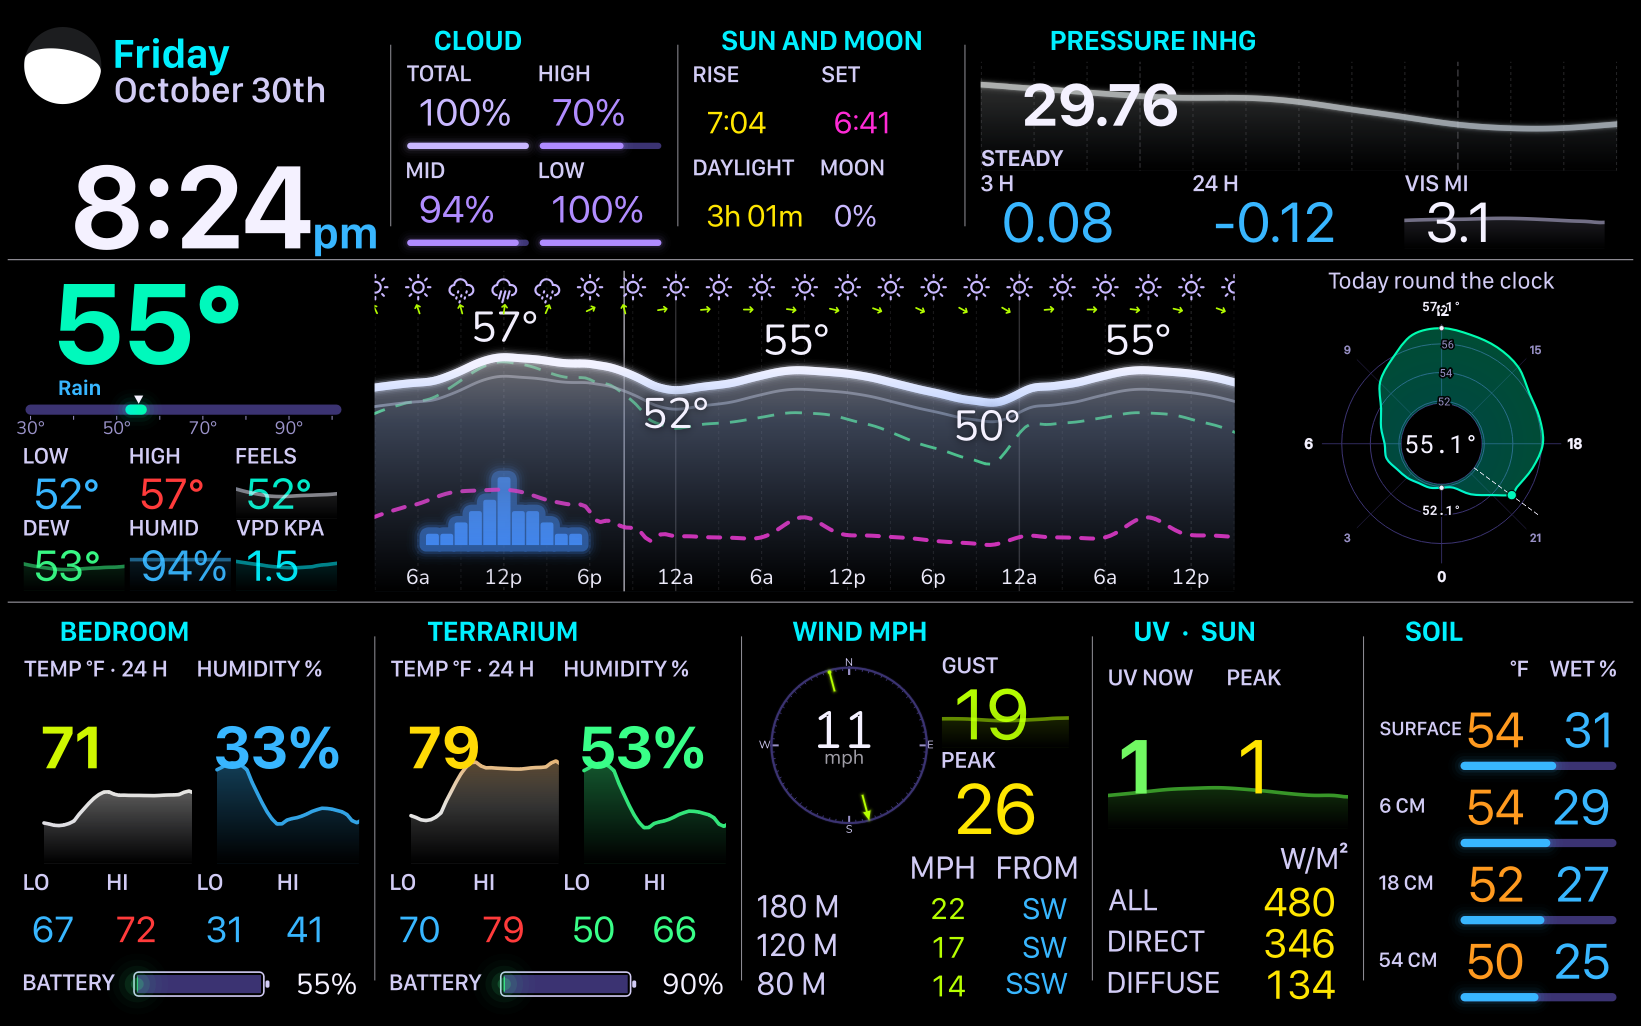
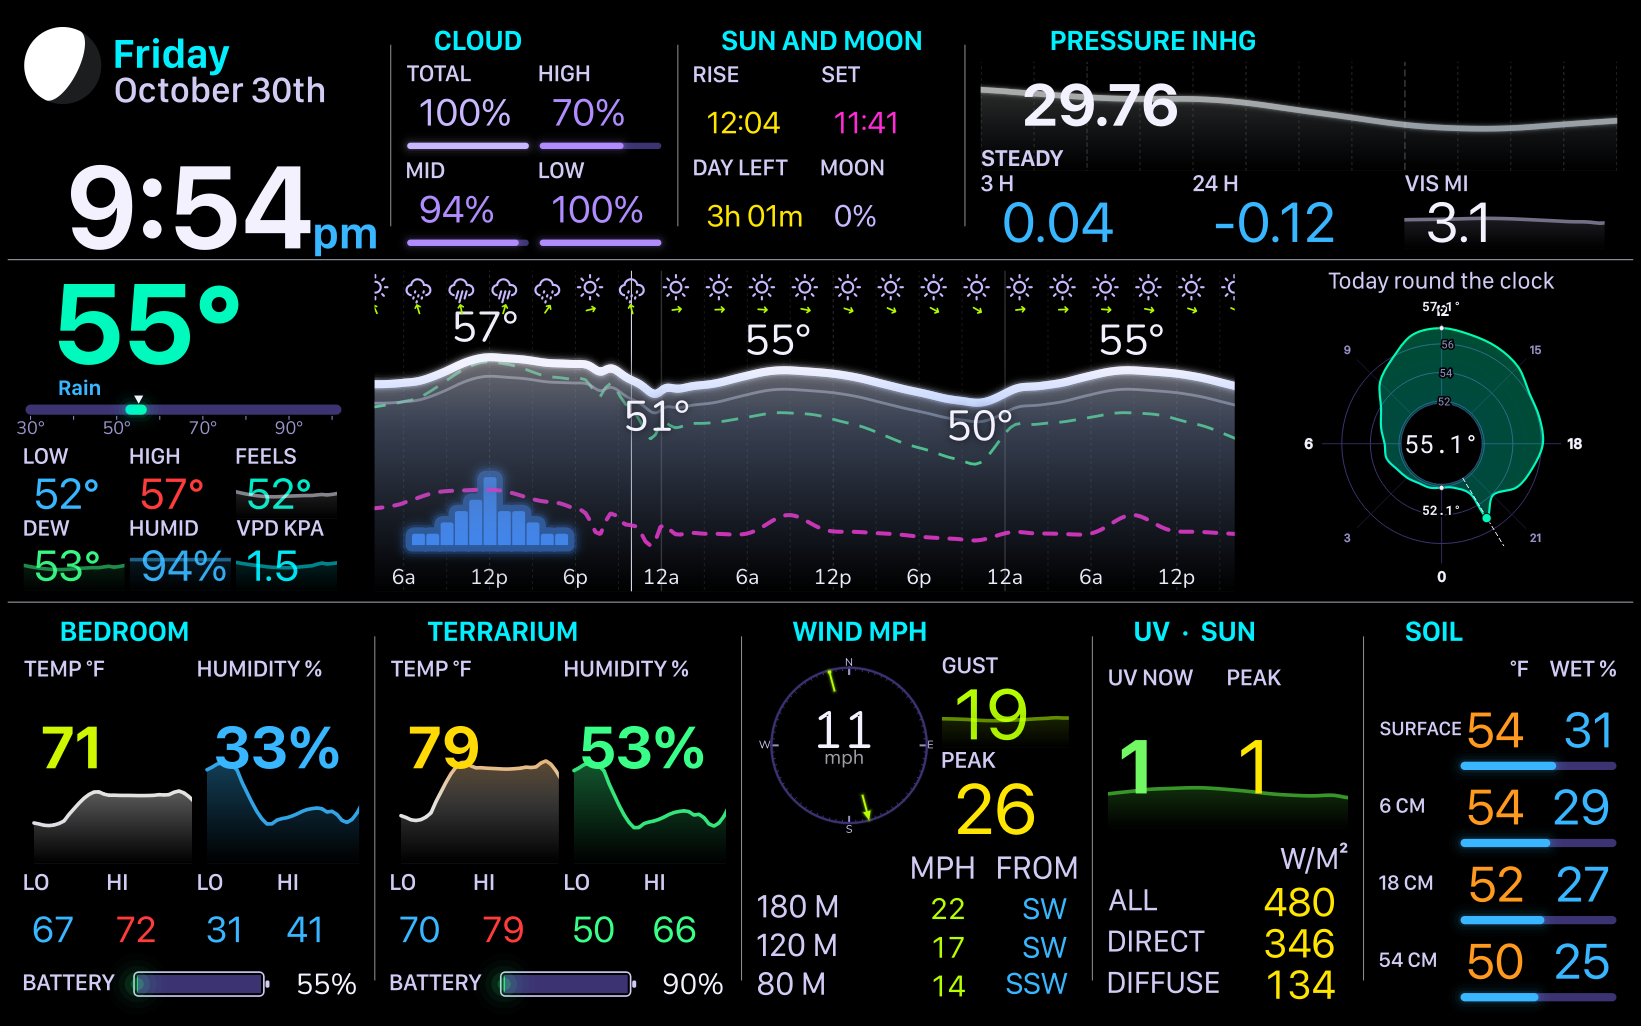
fix: lambda polish, Open-Meteo soil moisture, graphs of realtime sensors read their recorded history (#251)
* fix(Dashboards): lambda polish from the first screenshot; Open-Meteo soil moisture is a share of one

- The captions in each panel share one size group. On lambda's screen, room and UV
  captions grew to their cell widths and ran into each other.
- DAYLIGHT is astronomy.sun.remaining, the daylight that is left, so it is now
  captioned DAY LEFT.
- The forecast window starts one hour back, not six. Lambda has no history there,
  so the old window left an empty band with a lone "2p" label.
- Open-Meteo reports soil moisture in m³/m³ (0.31), and the schema read it as
  percent, so every soil row showed 0. It now reads it as a share of one, like
  PirateWeather's moon phase.

Claude-Session: https://claude.ai/code/session_01XXB2c8ceBkjJJtoHgxAMd5

* fix(Dispatcher): a graph of a realtime sensor reads its recorded history

A recorded log (ObservationLog) reports a negative period, so a realtime
source that keeps its history, such as Govee, never counted as a timeseries.
A graph's request also waited for a forecast, which such a key never gets. As a
result the room mini graphs never asked for the history the backend holds:
lambda's frontend logged no Govee timeseries request at all.

isTimeseries now compares the absolute period. A container whose only series is
its past stands in for a forecast when no source of the key has one. That covers
the strict getTimeseries, the ready check in getPreferredSourceContainer and
[…]

diff --git a/docs/tasks/lambda-cross-section-gen.py b/docs/tasks/lambda-cross-section-gen.py
@@ -31,8 +31,12 @@ def panel(name, title, items, size=None, color='$accent'):
 
 
 def cap(text, geom, color='$muted'):
+	# Every caption in a panel shares one size group (scoped per panel by scope_groups), so a caption in a wide
+	# cell is not drawn larger than its neighbours: on lambda's screen `text-height` alone let them grow into
+	# each other.
 	return {'type': 'text', 'text': text, 'font': '$display', 'weight': 'Medium', 'color': color,
-	        'alignment': 'BottomLeft', 'text-height': CAP, 'geometry': geom}
+	        'alignment': 'BottomLeft', 'text-height': CAP, 'geometry': geom,
+	        'matchingGroup': {'group': 'global.cap', 'matchAll': True}}
 
 
 def val(key, geom, color='$text', precision=0, unit='Hidden', hint=None, height=VAL, group='global.tile', align='BottomLeft', fmt=None, weight='Regular'):
@@ -170,7 +174,7 @@ cloud = panel('cloud', 'CLOUD', [
 sun = panel('sun', 'SUN AND MOON', tiles([
 	('RISE', 'astronomy.sun.rise', {'color': '$warn', 'fmt': '%-I:%M', 'hint': '0:00'}),
 	('SET', 'astronomy.sun.set', {'color': '$pink', 'fmt': '%-I:%M', 'hint': '0:00'}),
-	('DAYLIGHT', 'astronomy.sun.remaining', {'color': '$warn', 'fmt': 'duration', 'hint': '0h 00m'}),
+	('DAY LEFT', 'astronomy.sun.remaining', {'color': '$warn', 'fmt': 'duration', 'hint': '0h 00m'}),
 	('MOON', 'astronomy.moon.phase', {'color': '$cloud', 'unit': 'Inline', 'hint': '00%'}),
 ], 0, 0, 100, 100, 2), size='16%')
 
@@ -221,7 +225,7 @@ now = {'type': 'group', 'name': 'now', 'size': '20%', 'items': [
 ]}
 
 forecast = {
-	'type': 'graph', 'name': 'forecast', 'timeframe': {'days': 2, 'hours': 12},
+	'type': 'graph', 'name': 'forecast', 'timeframe': {'days': 2, 'hours': 12, 'offset': {'hours': -1}},
 	'annotations': {'dayLabels': {'enabled': False},
 	                'hourLabels': {'alignment': 'BottomCenter', 'spacingIntervals': '3, 6, 12'},
 	                'lines': {'spacing': '8 mm', 'weight': 0.5}},
@@ -307,7 +311,7 @@ def room(name, title, ident, hum_color, tlo, thi):
 	return panel(name, title, [
 		mini(t, g(0, 12, 50, 48), gradient='TemperatureGradient', hours=24, past=True, lo=tlo, hi=thi, opacity=0.9, fill=0.4, figure='indoor', top='5%'),
 		mini(h, g(52, 12, 48, 48), color=hum_color, hours=24, past=True, opacity=0.9, fill=0.4, figure='humid', top='35%'),
-		cap('TEMP °F · 24 H', g(0, 0, 50, 10)),
+		cap('TEMP °F', g(0, 0, 50, 10)),
 		val(t, g(0, 10, 50, 34), temp_scale(t), unit='Hidden', hint='00', fmt={'unit_symbol': False}, height=HERO2, group='global.hero2', weight='Bold'),
 		cap('HUMIDITY %', g(52, 0, 48, 10)),
 		val(h, g(52, 10, 48, 34), hum_color, unit='Inline', hint='00%', height=HERO2, group='global.hero2', weight='Bold'),
@@ -401,8 +405,8 @@ def scope_groups(node, panel=None):
 		if node.get('type') in ('titled-group', 'group', 'switch') and node.get('name'):
 			panel = node['name']
 		mg = node.get('matchingGroup')
-		if isinstance(mg, dict) and mg.get('group') == 'global.tile' and panel:
-			mg['group'] = f'global.tile-{panel}'
+		if isinstance(mg, dict) and mg.get('group') in ('global.tile', 'global.cap') and panel:
+			mg['group'] = f"{mg['group']}-{panel}"
 		for v in node.values():
 			scope_groups(v, panel)
 	elif isinstance(node, list):

diff --git a/src/LevityDash/lib/plugins/dispatcher.py b/src/LevityDash/lib/plugins/dispatcher.py
@@ -201,14 +201,14 @@ class MultiSourceContainer(dict):
 		# a live Container, so live-mode behavior is unchanged.
 		try:
 			preferred = self[preferredSource if preferredSource is not AnySource else None or self.preferredSource]
-			if preferred.timeseries is not None and (preferred.isForecast or (not strict and (preferred.isTimeseries or preferred.isDaily))):
+			if preferred.timeseries is not None and (preferred.isForecast or (not strict and preferred.isDaily) or self._historyOnly(preferred)):
 				return preferred
 		except KeyError:
 			pass
 		timeseriesContainers = sorted(
 			[
 				c for c in self.values()
-				if c.timeseries is not None and (c.isForecast or ((c.isTimeseries or c.isDaily) and not strict))
+				if c.timeseries is not None and (c.isForecast or (c.isDaily and not strict) or self._historyOnly(c))
 			],
 			key=lambda c: (c.isForecast, len(c.source.config.defaultFor)), reverse=True
 		)
@@ -216,6 +216,11 @@ class MultiSourceContainer(dict):
 			return timeseriesContainers[0]
 		except IndexError:
 			return None
+
+	def _historyOnly(self, container) -> bool:
+		"""A container whose only series is its recorded past (a Govee room sensor) stands in for a forecast when no
+		source of this key has one. A key that does have a forecast keeps it: a station's log never wins over it."""
+		return container.isTimeseries and not container.isForecast and not self.isForecast
 
 	def getDaily(self, preferredSource: Plugin | SomePlugin = AnySource) -> Container | None:
 		"""
@@ -338,7 +343,7 @@ class MultiSourceContainer(dict):
 					singleShotSafe(1, request.callback)
 
 		if requesters := (self.waitingForTimeseries[plugin] or self.waitingForTimeseries[AnySource]):
-			if plugin[self.key].isForecast:
+			if plugin[self.key].isForecast or self._historyOnly(plugin[self.key]):
 				log.verbose(f"{plugin.name} timeseries is ready for {self.key}", verbosity=2)
 				for request in (*self.waitingForTimeseries.pop(plugin, []), *self.waitingForTimeseries.pop(AnySource, [])):
 					log.verbose(f"Issuing callback for {request.requester!s}", verbosity=2)
@@ -394,7 +399,7 @@ class MultiSourceContainer(dict):
 		# waits, and without this check the request would hold until the
 		# source's next publish (a full poll cycle). Mirror checkAwaiting's
 		# fire conditions and short-circuit instead of queueing.
-		ready = (lambda c: c.isForecast) if timeseriesOnly else (lambda c: c.isRealtime or c.isRealtimeApproximate)
+		ready = (lambda c: c.isForecast or self._historyOnly(c)) if timeseriesOnly else (lambda c: c.isRealtime or c.isRealtimeApproximate)
 		if plugin is AnySource:
 			# Rank by the same key getTimeseries/getRealtimeContainer/getDaily
 			# use, so a source declaring itself default for more keys wins.

diff --git a/tests/wire/test_containers.py b/tests/wire/test_containers.py
@@ -473,3 +473,43 @@ def test_a_polar_feed_asks_for_more_than_the_default_window():
 	minPeriod, maxPeriod = SeriesFeed.wireTimeseriesPeriod.fget(None)
 	assert minPeriod <= timedelta(days=-1)
 	assert maxPeriod >= timedelta(days=3)
+
+
+def _room_sensor(multi, key, name='Govee-bedroom'):
+	# A realtime source that keeps its past in a recorded log: realtime and a timeseries, never a forecast.
+	source = RemoteSource(name=name)
+	remote = source.getOrCreate(key)
+	remote._update(value=wu.Temperature.Fahrenheit(74), flags=ContainerFlags(isRealtime=True, isTimeseries=True, isTimeseriesOnly=False))
+	multi.addValue(source, remote)
+	return source, remote
+
+
+def test_a_graph_of_a_room_sensor_asks_for_its_recorded_history():
+	# Govee keys have no forecast, only a log. A graph's request (timeseriesOnly) used to wait for a forecast that
+	# never comes, so the room mini graphs on lambda never asked the backend for their history.
+	key = CategoryItem('indoor.temperature.temperature#bedroom')
+	multi = MultiSourceContainer(key)
+	source, remote = _room_sensor(multi, key)
+	captured = []
+	source._ts_request_fn = lambda message, on_response: captured.append(message)
+
+	multi.getPreferredSourceContainer('graph', AnySource, lambda: None, timeseriesOnly=True)
+	assert len(captured) == 1
+
+	remote._timeseries = RemoteTimeSeries(source, key, [TimeSeriesItem.load_raw(74.0, datetime(2026, 10, 30, tzinfo=timezone.utc))])
+	assert multi.getTimeseries(strict=True) is remote
+
+
+def test_a_forecast_still_wins_over_a_recorded_log():
+	key = CategoryItem('environment.temperature.temperature')
+	multi = MultiSourceContainer(key)
+	_, log = _room_sensor(multi, key, name='WeatherFlow')
+	forecastSource = RemoteSource(name='OpenMeteo')
+	forecast = forecastSource.getOrCreate(key)
+	forecast._update(value=wu.Temperature.Fahrenheit(70), flags=ContainerFlags(isForecast=True, isTimeseries=True, isTimeseriesOnly=True))
+	multi.addValue(forecastSource, forecast)
+	at = datetime(2026, 10, 30, tzinfo=timezone.utc)
+	log._timeseries = RemoteTimeSeries(log.source, key, [TimeSeriesItem.load_raw(74.0, at)])
+	forecast._timeseries = RemoteTimeSeries(forecastSource, key, [TimeSeriesItem.load_raw(70.0, at)])
+	assert multi.getTimeseries(strict=True) is forecast
+	assert multi.getTimeseries() is forecast

diff --git a/src/LevityDash/lib/plugins/builtin/OpenMeteo.py b/src/LevityDash/lib/plugins/builtin/OpenMeteo.py
@@ -300,7 +300,9 @@ schema = {
 	},
 	'environment.soil.moisture.moisture':           {
 		'type':           'soil',
-		'sourceUnit':     '%',
+		'sourceUnit':     '%%',
+		# Open-Meteo gives m³/m³, a share of one: 0.31 is 31%, not 0.31%.
+		'kwargs':         {'isPercentage': False},
 		'title':          'Soil Moisture',
 		'description':    'Soil moisture',
 		'sourceKey':      'soil_moisture_0_1cm',
@@ -308,7 +310,9 @@ schema = {
 	},
 	'environment.soil.moisture.1-3cm':              {
 		'type':           'soil',
-		'sourceUnit':     '%',
+		'sourceUnit':     '%%',
+		# Open-Meteo gives m³/m³, a share of one: 0.31 is 31%, not 0.31%.
+		'kwargs':         {'isPercentage': False},
 		'title':          'Soil Moisture [1-3cm]',
 		'description':    'Soil moisture at 1-3cm depth',
 		'sourceKey':      'soil_moisture_1_3cm',
@@ -316,7 +320,9 @@ schema = {
 	},
 	'environment.soil.moisture.3-9cm':              {
 		'type':           'soil',
-		'sourceUnit':     '%',
+		'sourceUnit':     '%%',
+		# Open-Meteo gives m³/m³, a share of one: 0.31 is 31%, not 0.31%.
+		'kwargs':         {'isPercentage': False},
 		'title':          'Soil Moisture [3-9cm]',
 		'description':    'Soil moisture at 3-9cm depth',
 		'sourceKey':      'soil_moisture_3_9cm',
@@ -324,7 +330,9 @@ schema = {
 	},
 	'environment.soil.moisture.9-27cm':             {
 		'type':           'soil',
-		'sourceUnit':     '%',
+		'sourceUnit':     '%%',
+		# Open-Meteo gives m³/m³, a share of one: 0.31 is 31%, not 0.31%.
+		'kwargs':         {'isPercentage': False},
 		'title':          'Soil Moisture [9-27cm]',
 		'description':    'Soil moisture at 9-27cm depth',
 		'sourceKey':      'soil_moisture_9_27cm',
@@ -332,7 +340,9 @@ schema = {
 	},
 	'environment.soil.moisture.27-81cm':            {
 		'type':           'soil',
-		'sourceUnit':     '%',
+		'sourceUnit':     '%%',
+		# Open-Meteo gives m³/m³, a share of one: 0.31 is 31%, not 0.31%.
+		'kwargs':         {'isPercentage': False},
 		'title':          'Soil Moisture [27-81cm]',
 		'description':    'Soil moisture at 27-81cm depth',
 		'sourceKey':      'soil_moisture_27_81cm',

diff --git a/tests/plugins/test_percent_scale.py b/tests/plugins/test_percent_scale.py
@@ -44,3 +44,11 @@ def test_fraction_source_reads_zero_to_one(key):
 def test_wire_round_trip_keeps_a_small_percentage_small():
 	small = convert(OpenMeteo, 'environment.humidity.humidity')(0.1)
 	assert float(decode_measurement(encode_measurement(small))) == pytest.approx(0.001)
+
+
+@pytest.mark.parametrize('key', ['environment.soil.moisture.moisture', 'environment.soil.moisture.1-3cm', 'environment.soil.moisture.27-81cm'])
+def test_open_meteo_soil_moisture_is_a_share_of_one(key):
+	# Open-Meteo reports m³/m³: 0.31 is 31 %. Read as percent it was 0.31 % and every soil row showed 0.
+	moisture = convert(OpenMeteo, key)(0.31)
+	assert float(moisture) == pytest.approx(0.31)
+	assert str(moisture).startswith('31')

diff --git a/src/LevityDash/lib/plugins/observation.py b/src/LevityDash/lib/plugins/observation.py
@@ -3003,8 +3003,10 @@ class Container:
 
 	@property
 	def isTimeseries(self) -> bool:
+		# abs: a recorded log (ObservationLog) runs backwards and reports a negative period, so a realtime source
+		# that keeps its history (Govee) never counted as having a series, and nothing could graph it.
 		return any(
-			obs.period > TIMESERIES_CUTOFF
+			abs(obs.period) > TIMESERIES_CUTOFF
 			for obs in self.source.observations
 			if self.__time_series_guard(obs)
 		)
